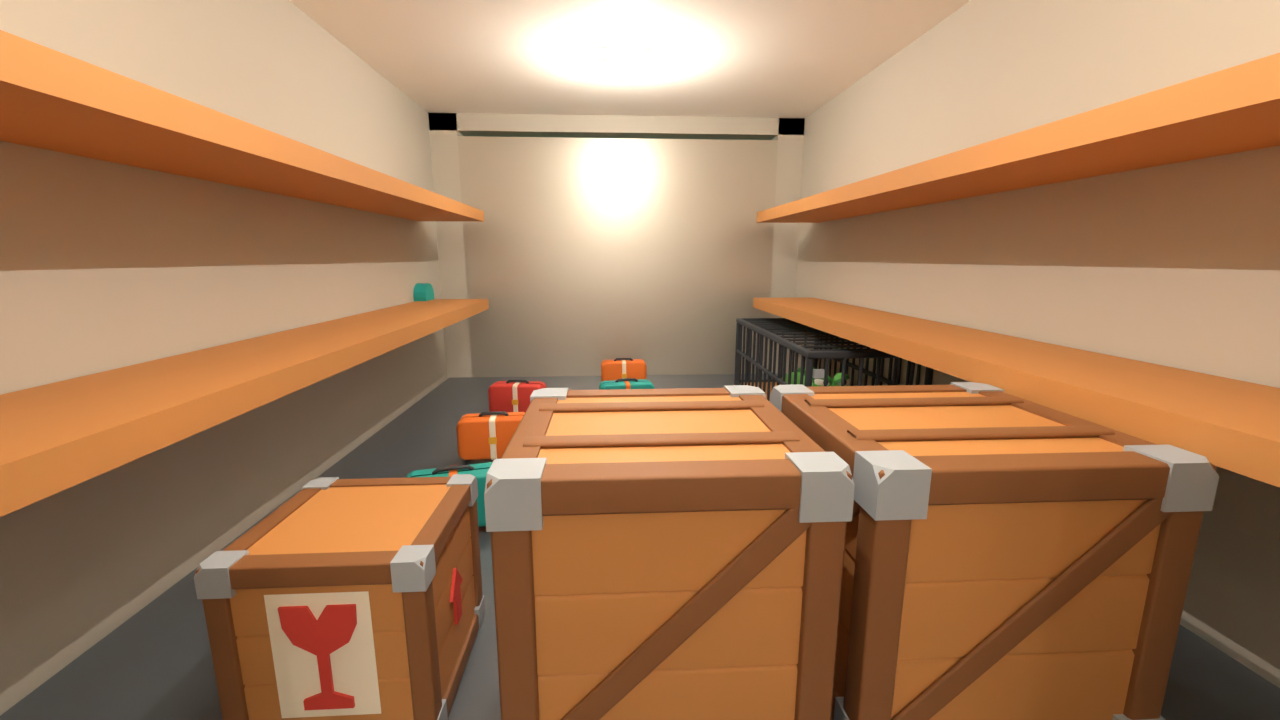
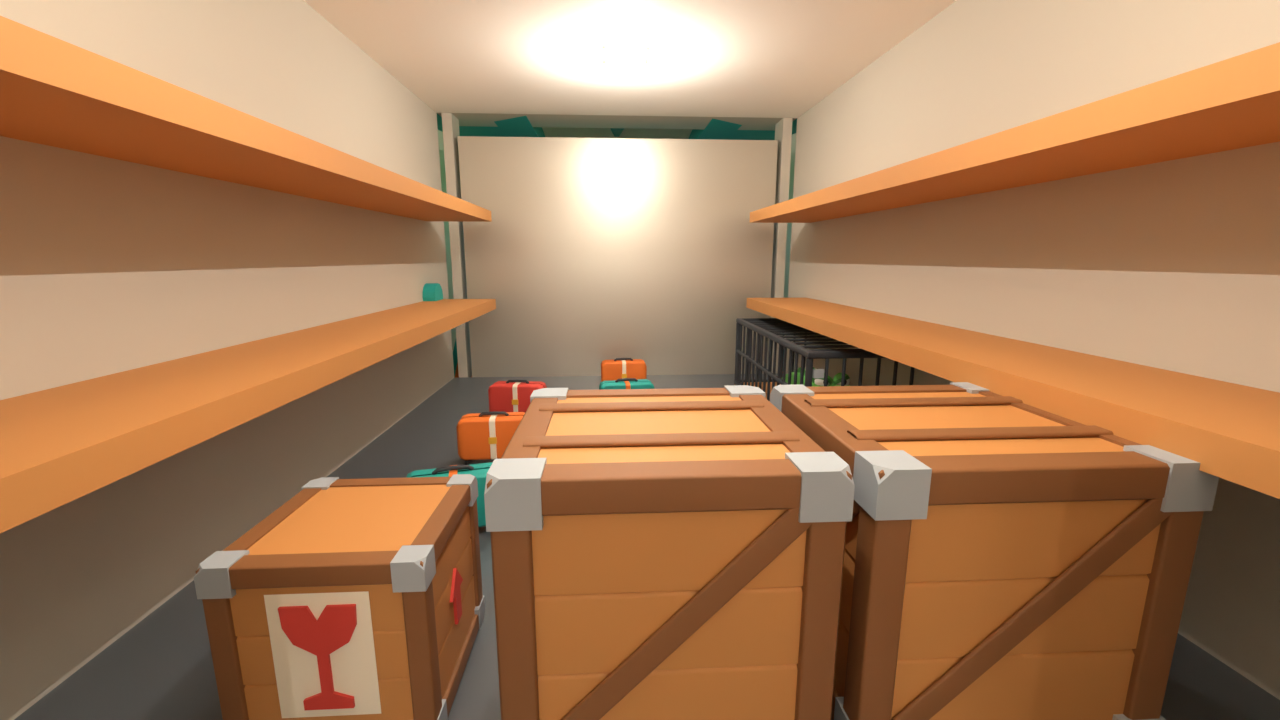
Overbooked!: renders finales, prueba de servidor por API y versión 11
- Renders de la vista previa con el mapa ajustado al casco.
- herramientas/probar.py + pruebas/servidor.luau: prueba automática con
  la API de ejecución de Luau (lista para cuando la clave tenga permiso).
- Publicado como versión 11.

Claude-Session: https://claude.ai/code/session_01CtY7kPLdYshYMujofE8jFT

diff --git a/Overbooked/herramientas/probar.py b/Overbooked/herramientas/probar.py
@@ -1,0 +1,40 @@
+import json
+import os
+import subprocess
+import sys
+import time
+
+UNIVERSO = "10774639088"
+LUGAR = "70554923634533"
+API = "https://apis.roblox.com/cloud/v2"
+
+
+def curl(args):
+    r = subprocess.run(["curl", "-sS", "-m", "60"] + args, capture_output=True, text=True)
+    try:
+        return json.loads(r.stdout)
+    except json.JSONDecodeError:
+        return {"crudo": r.stdout, "error": r.stderr}
+
+
+def main():
+    ruta = sys.argv[1] if len(sys.argv) > 1 else os.path.join(os.path.dirname(os.path.abspath(__file__)), "pruebas", "servidor.luau")
+    cuerpo = json.dumps({"script": open(ruta).read(), "timeout": "300s"})
+    tarea = curl(["-X", "POST", "-H", "Content-Type: application/json", "--data", cuerpo,
+                  f"{API}/universes/{UNIVERSO}/places/{LUGAR}/luau-execution-session-tasks"])
+    camino = tarea.get("path")
+    if not camino:
+        print(json.dumps(tarea, indent=1, ensure_ascii=False))
+        return
+    for _ in range(120):
+        time.sleep(5)
+        estado = curl([f"{API}/{camino}"])
+        if estado.get("state") in ("COMPLETE", "FAILED", "CANCELLED"):
+            print(json.dumps(estado, indent=1, ensure_ascii=False))
+            registros = curl([f"{API}/{camino}/logs"])
+            print(json.dumps(registros, indent=1, ensure_ascii=False)[:6000])
+            return
+    print("Tiempo agotado", camino)
+
+
+main()

diff --git a/Overbooked/README.md b/Overbooked/README.md
@@ -83,6 +83,7 @@ Todos los números del juego están en `src/shared/Config.luau`.
 3. Regenerar los visuales: `python3 herramientas/generar_visuales.py`
 4. Construir: `rojo build default.project.json -o overbooked.rbxlx`
 5. Publicar: `POST https://apis.roblox.com/universes/v1/10774639088/places/70554923634533/versions?versionType=Published` con el archivo `.rbxlx`
+6. Probar en un servidor de Roblox: `python3 herramientas/probar.py` ejecuta `herramientas/pruebas/servidor.luau` con la API de ejecución de Luau. Comprueba cómo se importó el tripulante (Humanoid, HumanoidRootPart, huesos de la boca, articulaciones), cuántos modelos de Blender se han colocado, si cargó el casco y la fase de la partida. Necesita el permiso *Luau Execution Sessions*.
 
 ## Boca que se abre al hablar por voz
 
